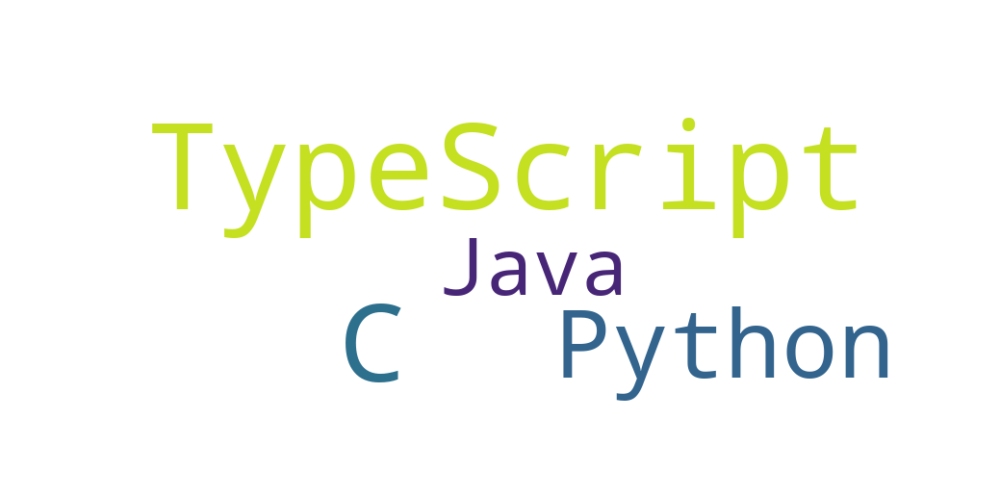
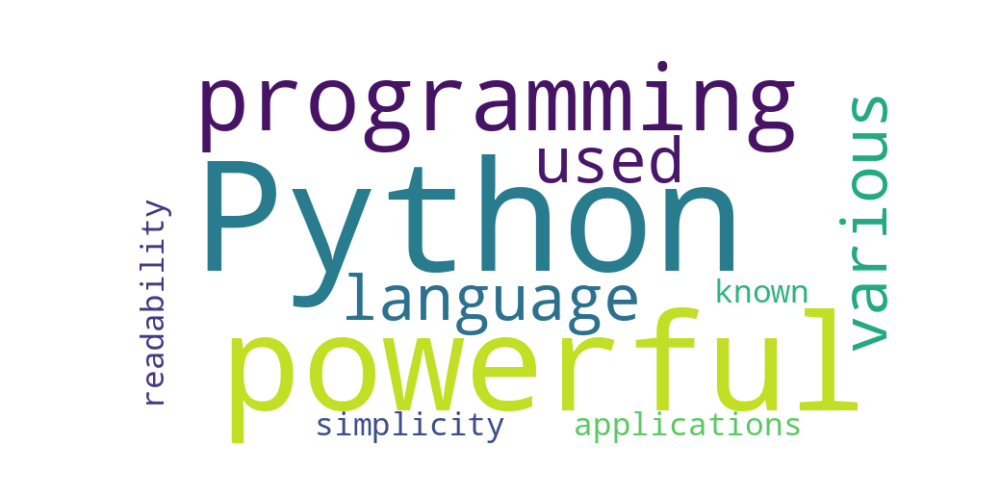
node.jsから特定テキスト送信でワードクラウド作成成功

Changed region(s): [[0.124, 0.12, 0.899, 0.9], [0.837, 0.48, 0.899, 0.54]]

diff --git a/src/test_py.js b/src/test_py.js
@@ -4,26 +4,55 @@ const fs = require("fs");
 const { promisify } = require("util");
 const writeFile = promisify(fs.writeFile);
 
-// FastAPIにGETリクエストを送信してBase64エンコードされた文字列を受け取り、バイナリに変換して保存
-async function sendGetRequest() {
-  try {
-    const response = await axios.get(`${fastapiUrl}/`);
-    console.log(response.data);
-    console.log(typeof response.data.image);
-    
-    if (response.data && typeof response.data.image === "string") {
-      // Base64エンコードされた文字列をデコードしてバイナリに変換
-      console.log("aaa");
-      const binaryData = Buffer.from(response.data.image, "base64");
-      await writeFile("savedImage.png", binaryData);
+const inputData = {
+  text: "Python is a powerful programming language used for various applications. It is known for its simplicity and readability."
+  // text: "みなりかけるは天才だ！かっこいい！スマート！バレーボール馬鹿！"
+};
 
-      console.log("Image saved successfully");
-    } else {
-      console.error("Received data is not a valid Base64 encoded string");
+async function test_post() {
+  try {
+    axios.post(`${fastapiUrl}/test`, inputData).then((response) => {
+        console.log("Processed Text:", response.data.image);
+        
+        if (response.data && typeof response.data.image === "string") {
+            // Base64エンコードされた文字列をデコードしてバイナリに変換
+            const binaryData = Buffer.from(response.data.image, "base64");
+            writeFile("savedImage.png", binaryData); // awaitいるかも？
+            console.log("Image saved successfully");
+        } else {
+            console.error("Received data is not a valid Base64 encoded string");
+        }
+    })
+    .catch((error) => {
+        console.error("Error:", error);
+        console.log("エラー");
+    });
+    } catch (error) {
+        console.error("Error sending GET request to FastAPI:", error.message);
     }
-  } catch (error) {
-    console.error("Error sending GET request to FastAPI:", error.message);
-  }
 }
 
-sendGetRequest();
+// // FastAPIにGETリクエストを送信してBase64エンコードされた文字列を受け取り、バイナリに変換して保存
+// async function sendGetRequest() {
+//   try {
+//     const response = await axios.get(`${fastapiUrl}/`);
+//     console.log(response.data);
+//     console.log(typeof response.data.image);
+
+//     if (response.data && typeof response.data.image === "string") {
+//       // Base64エンコードされた文字列をデコードしてバイナリに変換
+//       console.log("aaa");
+//       const binaryData = Buffer.from(response.data.image, "base64");
+//       await writeFile("savedImage.png", binaryData);
+
+//       console.log("Image saved successfully");
+//     } else {
+//       console.error("Received data is not a valid Base64 encoded string");
+//     }
+//   } catch (error) {
+//     console.error("Error sending GET request to FastAPI:", error.message);
+//   }
+// }
+
+// sendGetRequest();
+test_post();

diff --git a/fastapi/src/create_wordcloud.py b/fastapi/src/create_wordcloud.py
@@ -1,12 +1,12 @@
 from wordcloud import WordCloud
 import matplotlib.pyplot as plt 
 import base64
+import japanize_matplotlib
 
 # ワードクラウドを生成する関数
-def create_wordcloud():
-    # テキストデータ（ここではサンプルのテキストを使用）
-    # text = "Python is a powerful programming language used for various applications. It is known for its simplicity and readability."
-    text = "Python Python Python Java Java C C C C TypeScript TypeScript TypeScript TypeScript TypeScript"
+def create_wordcloud(text):
+    # print( plt.rcParams['font.family'] )
+    # print( plt.rcParams['font.IPAexGothic'] )
 
     # ワードクラウドを生成
     wordcloud = WordCloud(width=800, height=400, background_color='white').generate(text)
@@ -18,7 +18,7 @@ def create_wordcloud():
 
     plt.savefig("image.png")
 
-        # 画像をバイナリデータとして読み込む
+    # 画像をバイナリデータとして読み込む
     with open("./image.png", "rb") as f:
         image_data = f.read()
         base64_data = base64.b64encode(image_data).decode('utf-8')

diff --git a/fastapi/src/main.py b/fastapi/src/main.py
@@ -1,16 +1,23 @@
 from typing import Union
 from fastapi import FastAPI
-import create_wordcloud as create_wordcloud
-# import matplotlib.pyplot as plt
-# from wordcloud import WordCloud
-# import base64
+from pydantic import BaseModel
+import create_wordcloud as create_wordcloud # ワードクラウド生成のPythonファイルをインポート
+
+
+class RequestData(BaseModel):
+    text: str
 
 app = FastAPI()
 
 @app.get("/")
 def read_root():
+    return {"Hello": "World"}
 
-    base64_data = create_wordcloud.create_wordcloud() # ワードクラウドの生成
+@app.post("/test")
+async def process_text(request_data: RequestData):
+    input_text = request_data.text # node側からのデータ受取
+
+    base64_data = create_wordcloud.create_wordcloud(input_text) # ワードクラウドの生成
     return {"image": str(base64_data)}
 
 # @app.get("/items/{item_id}")
